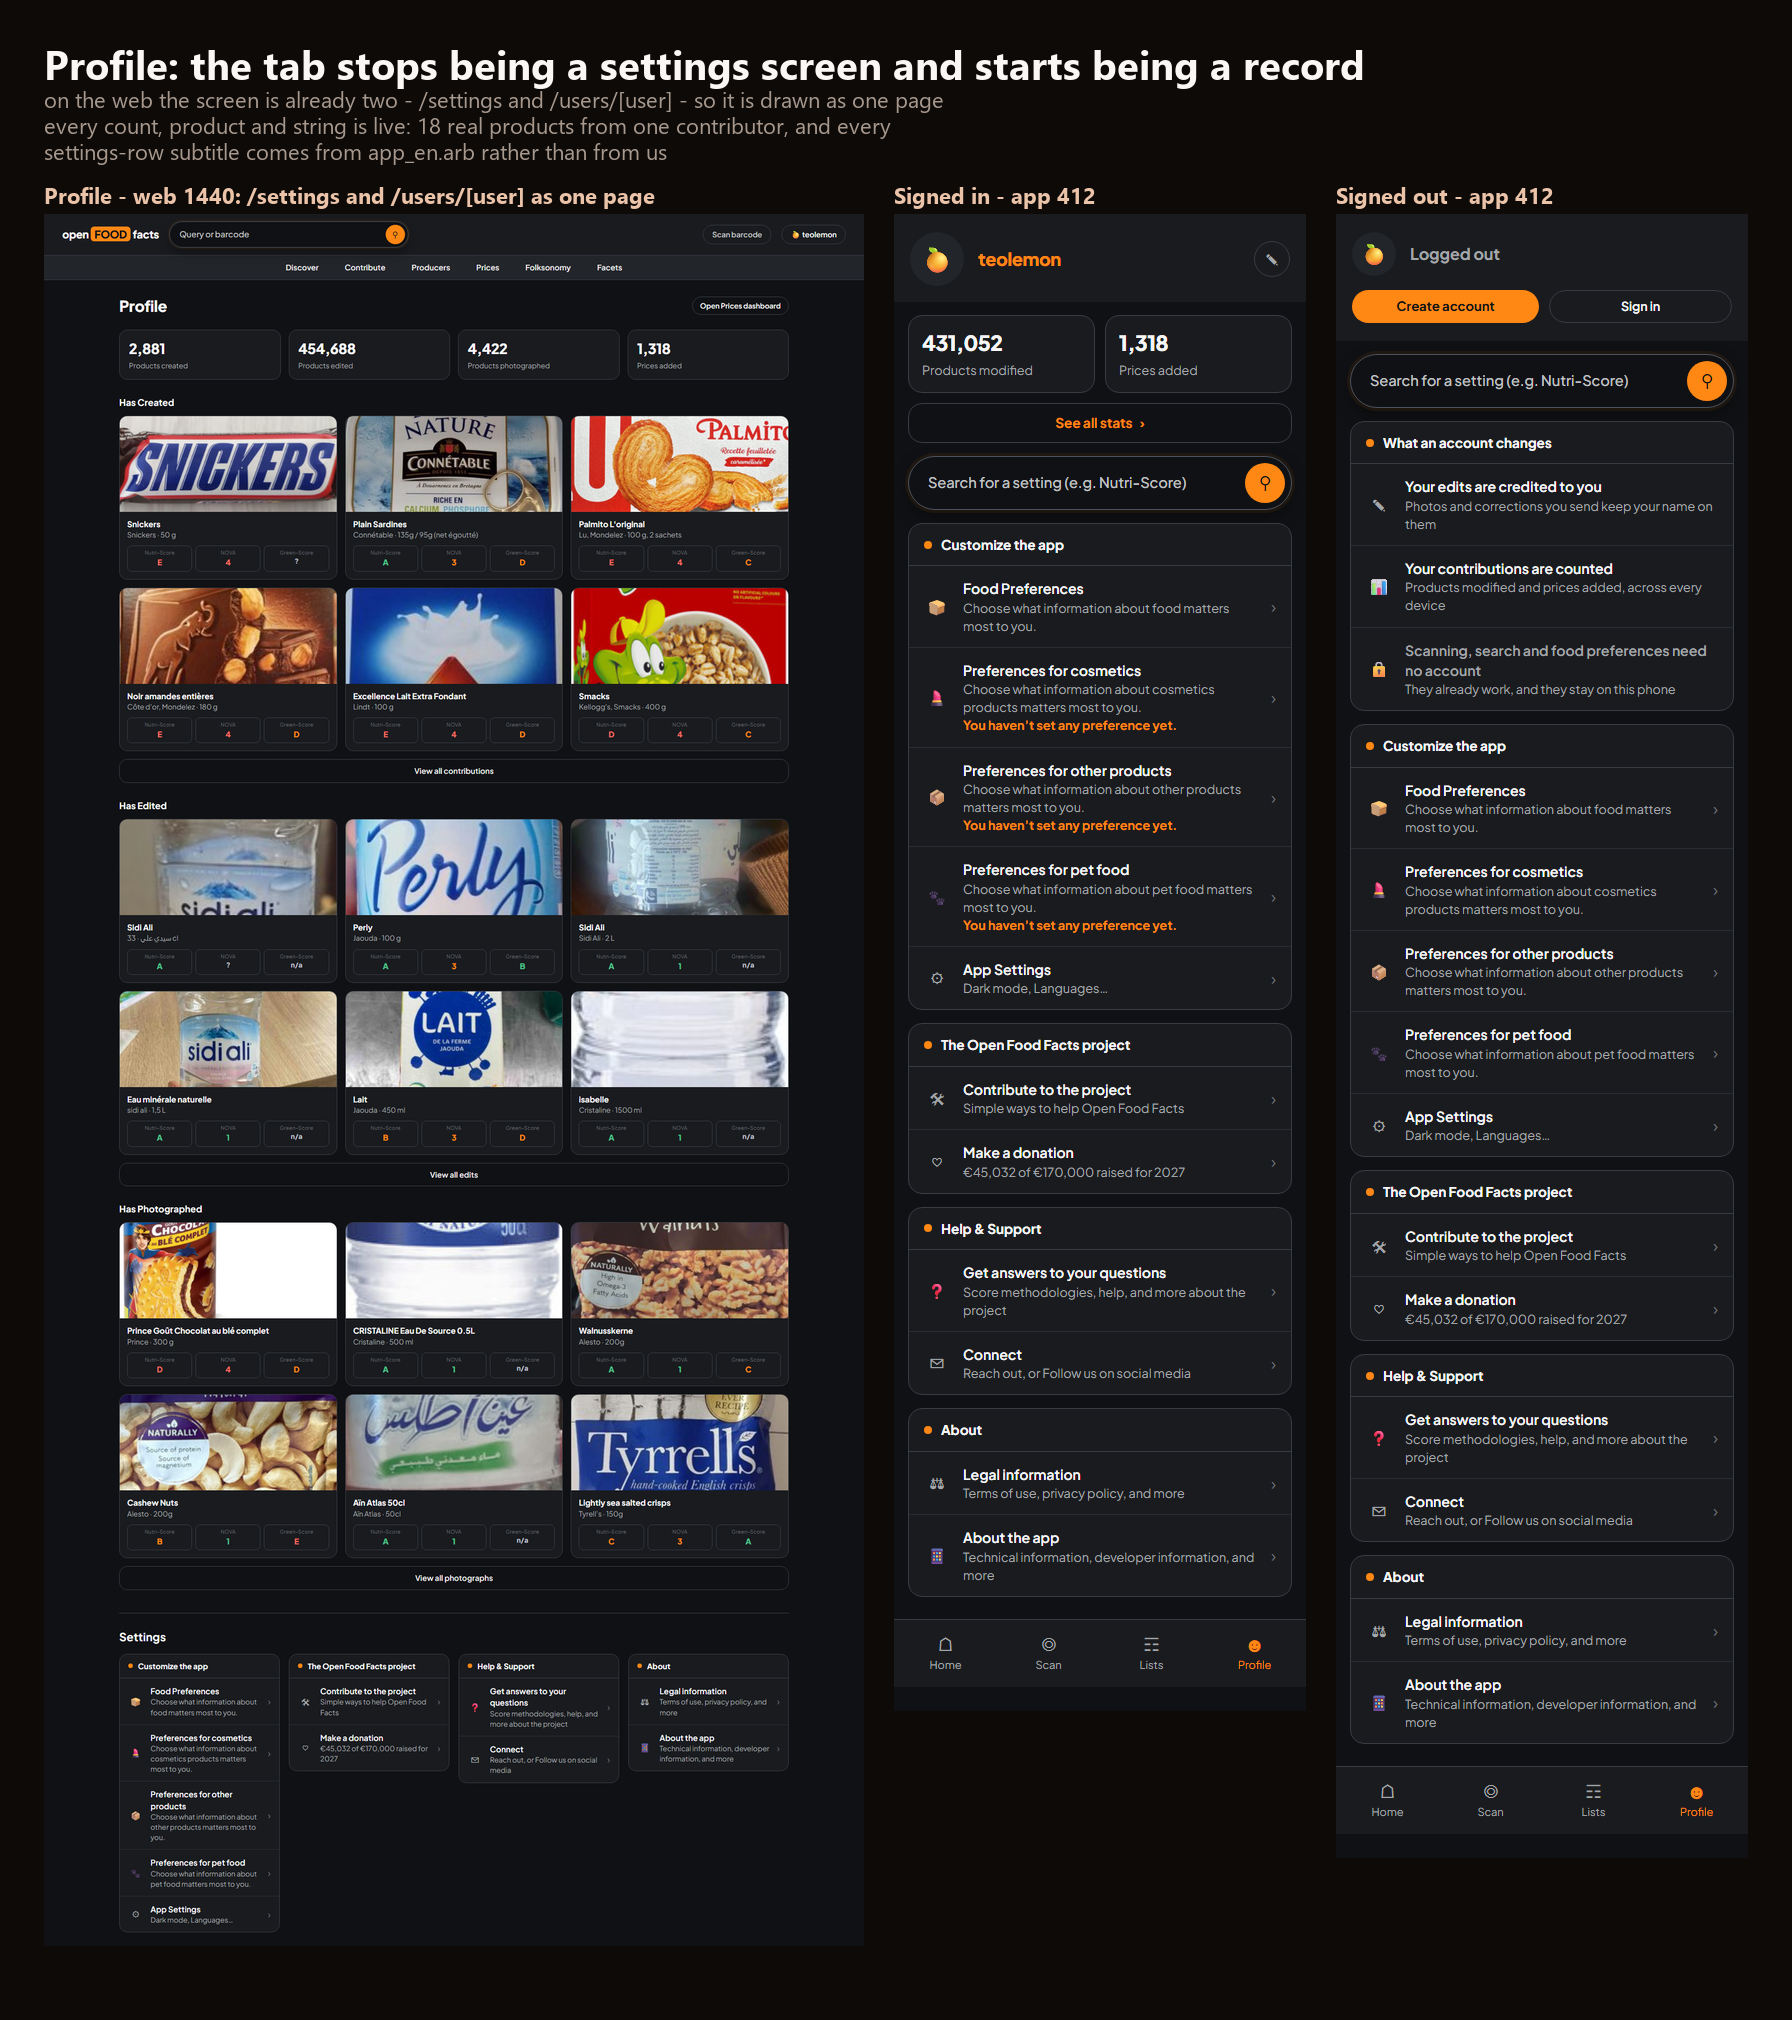
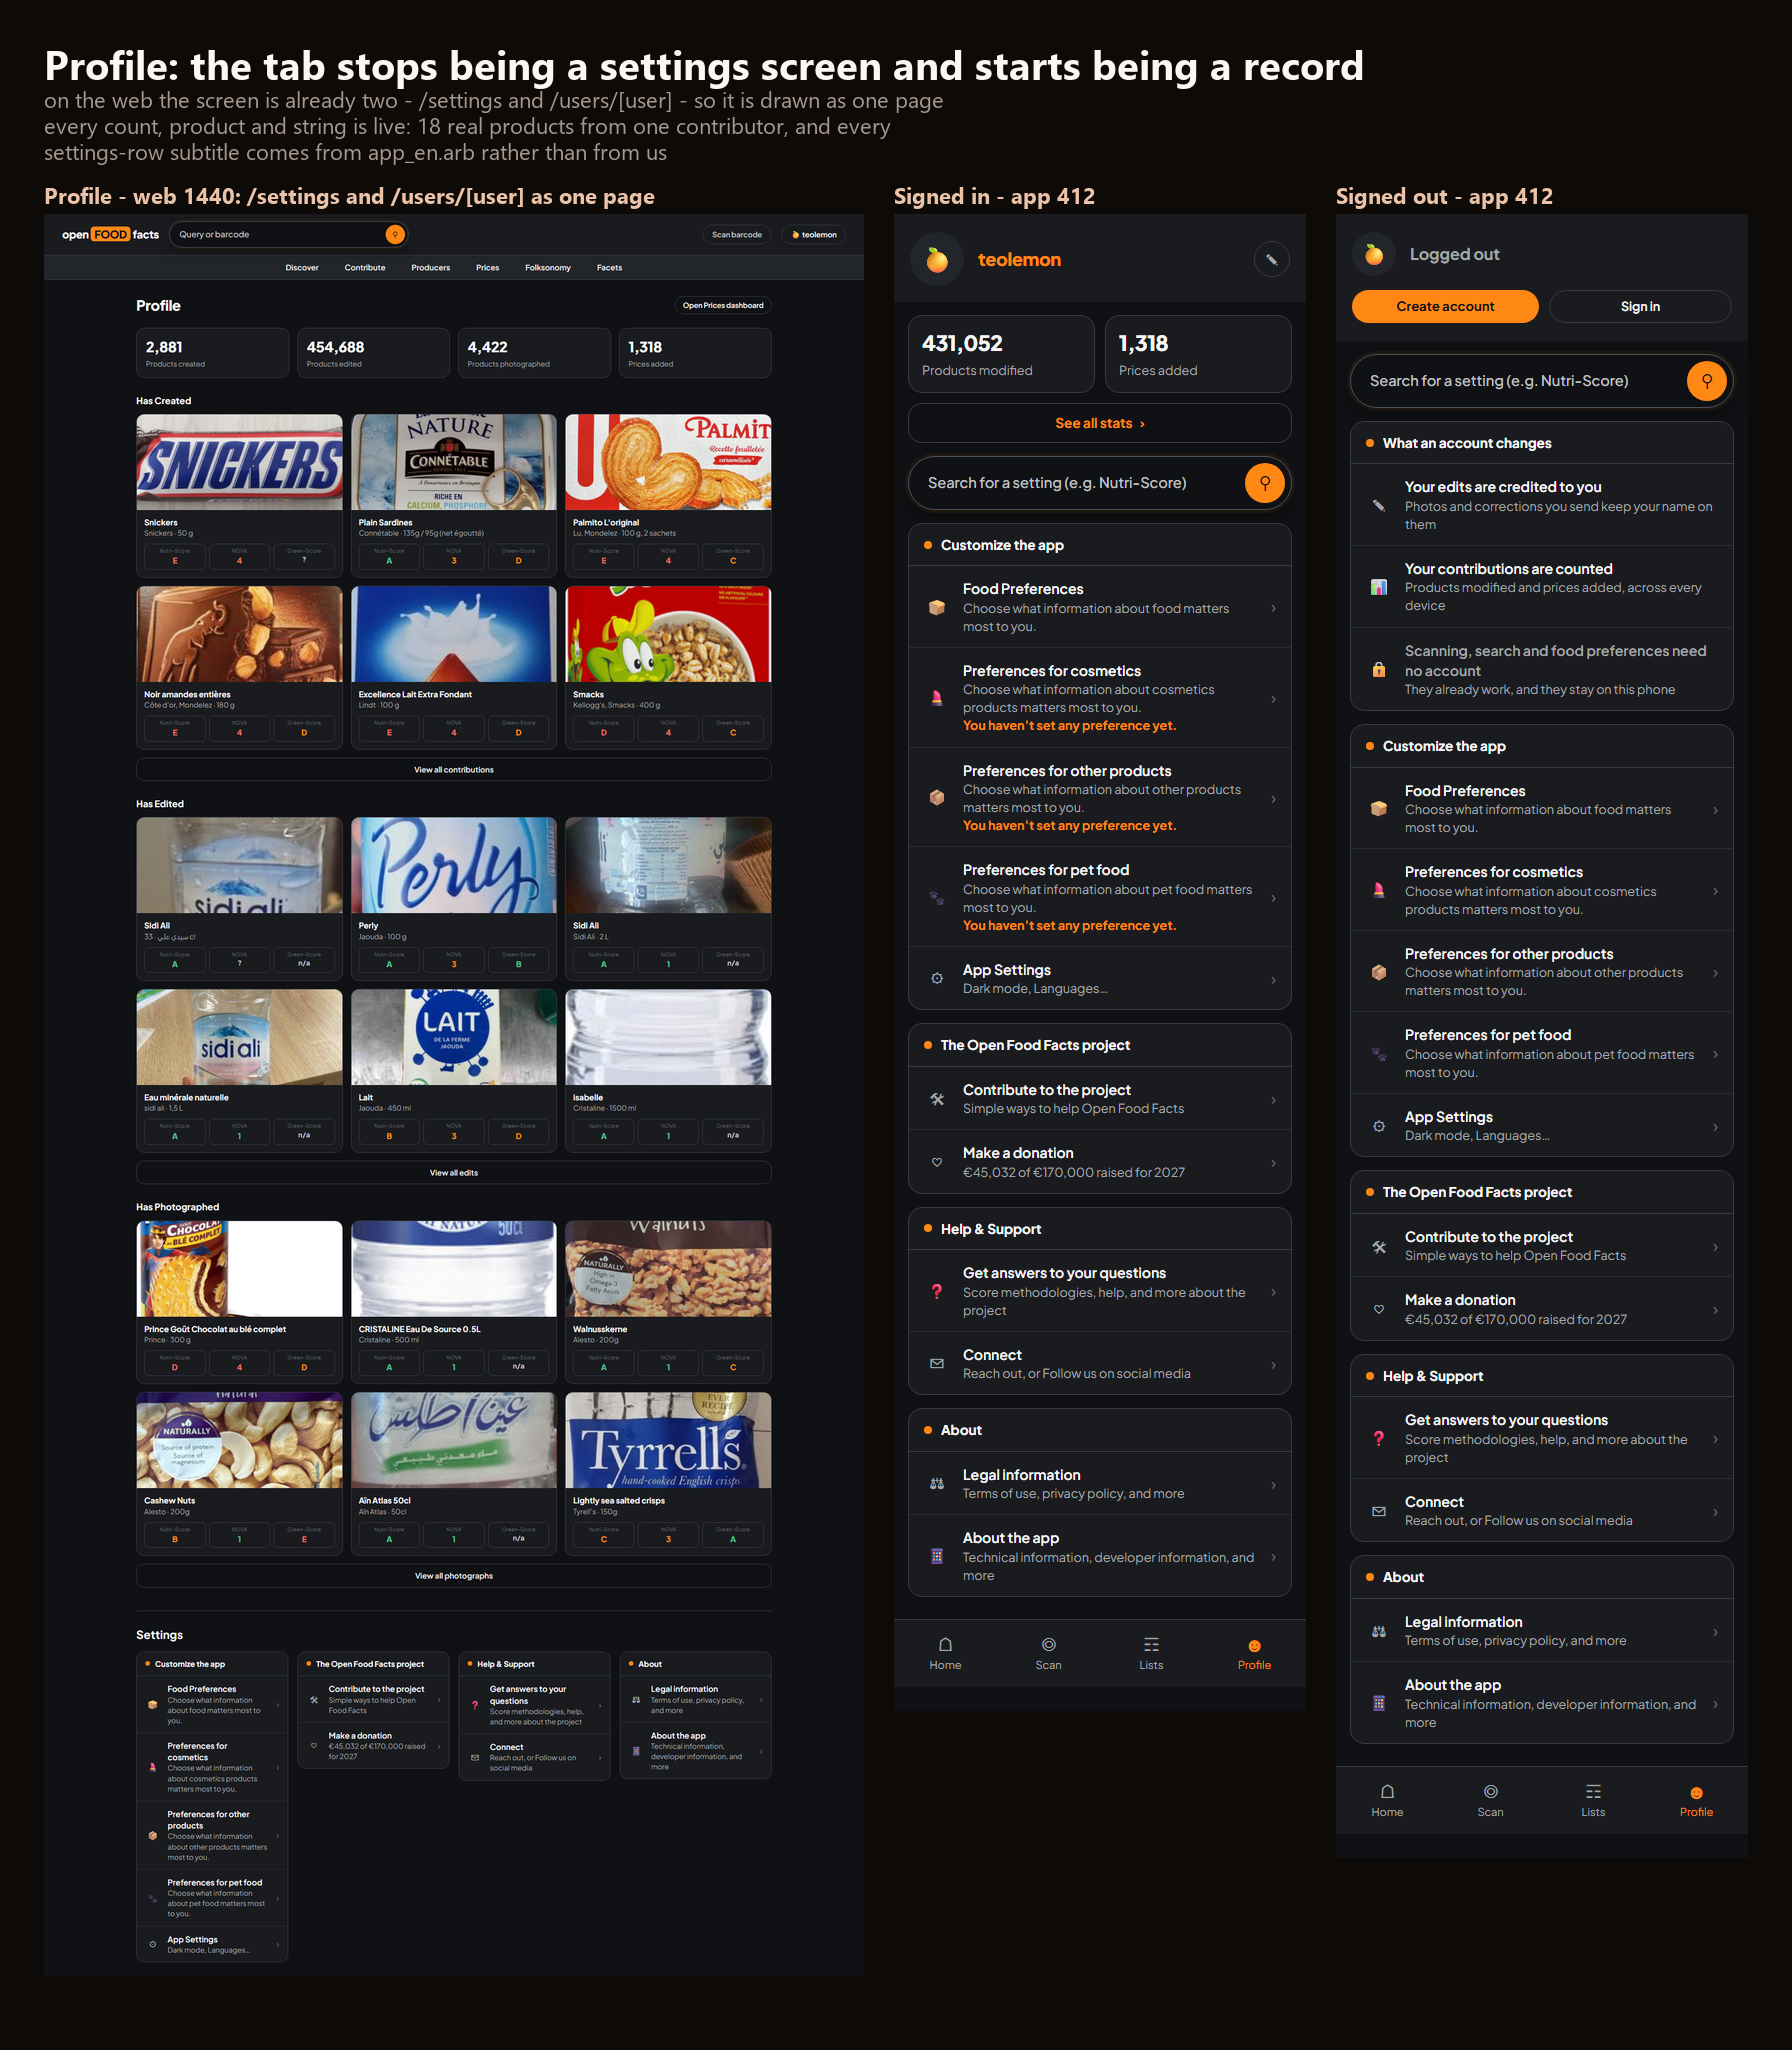
Profile: align the page width and title size with the other screens
Cross-screen pass over batch 3 found the wrapper at 1240 and the page title
at 27px where every other screen uses 1180 and 25px.

diff --git a/04-profile/mock.css b/04-profile/mock.css
@@ -111,10 +111,12 @@
   padding: 11px 32px; font-size: 13.5px; font-weight: 600; color: var(--txt2);
 }
 
-.wrap { max-width: 1240px; margin: 0 auto; padding: 26px 32px 50px; }
+/* 1180 / 26px 32px 46px is what 01, 02, 05 and 06 all use. This file had 1240/50 for no reason
+   and the cross-screen pass caught it (CROSS-SCREEN-batch3.md Q5). */
+.wrap { max-width: 1180px; margin: 0 auto; padding: 26px 32px 46px; }
 .phead1 { display: flex; align-items: center; gap: 16px; margin-bottom: 22px; }
 .phead1 .spacer { flex: 1; }
-h1 { font-size: 27px; font-weight: 800; letter-spacing: -.4px; }
+h1 { font-size: 25px; font-weight: 800; letter-spacing: -.3px; }   /* = 05-search's page title */
 h2 { font-size: 16px; font-weight: 700; margin: 28px 0 12px; }
 h2.sethead {
   font-size: 20px; margin: 40px 0 16px; padding-top: 26px; border-top: 1px solid var(--line);
